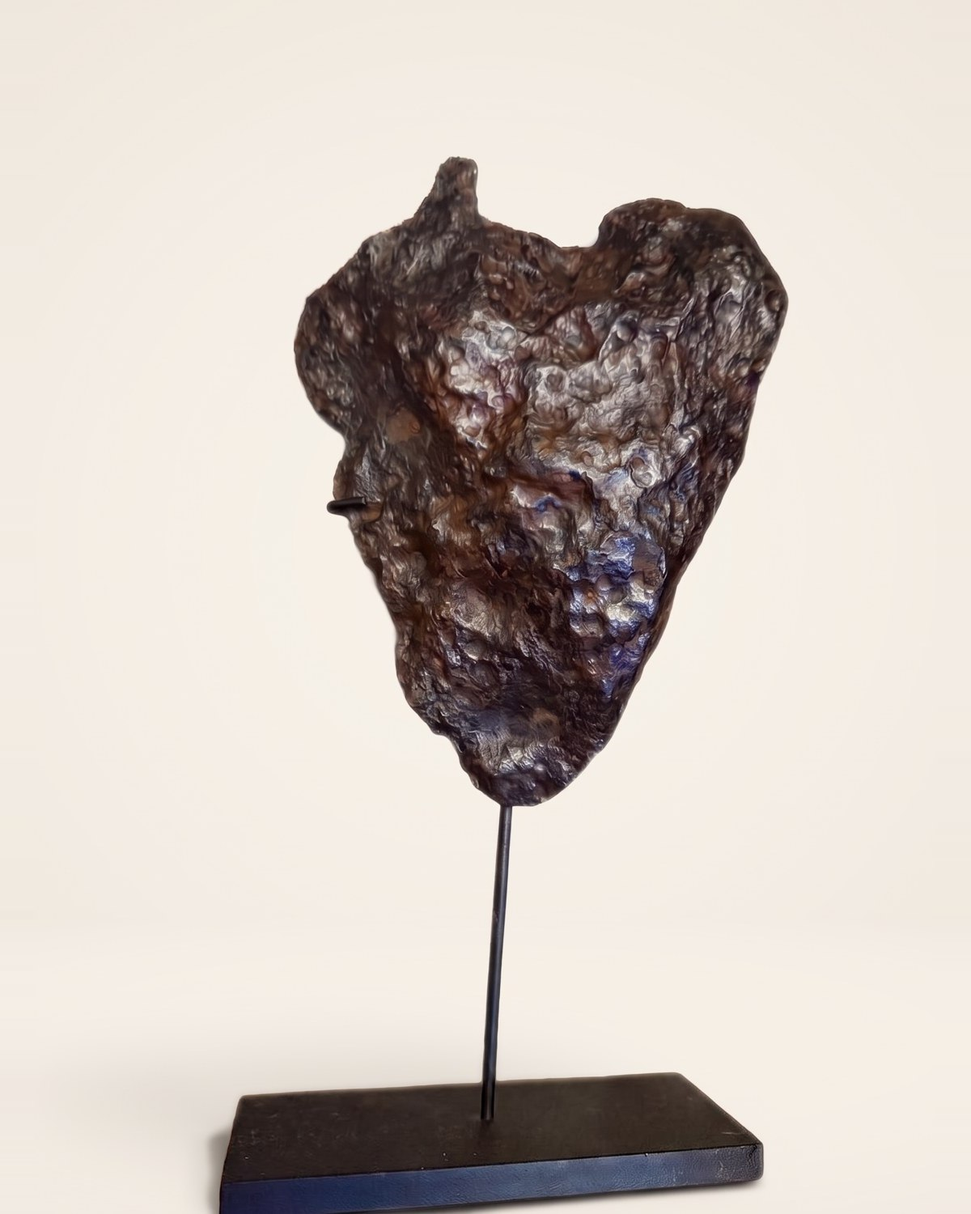
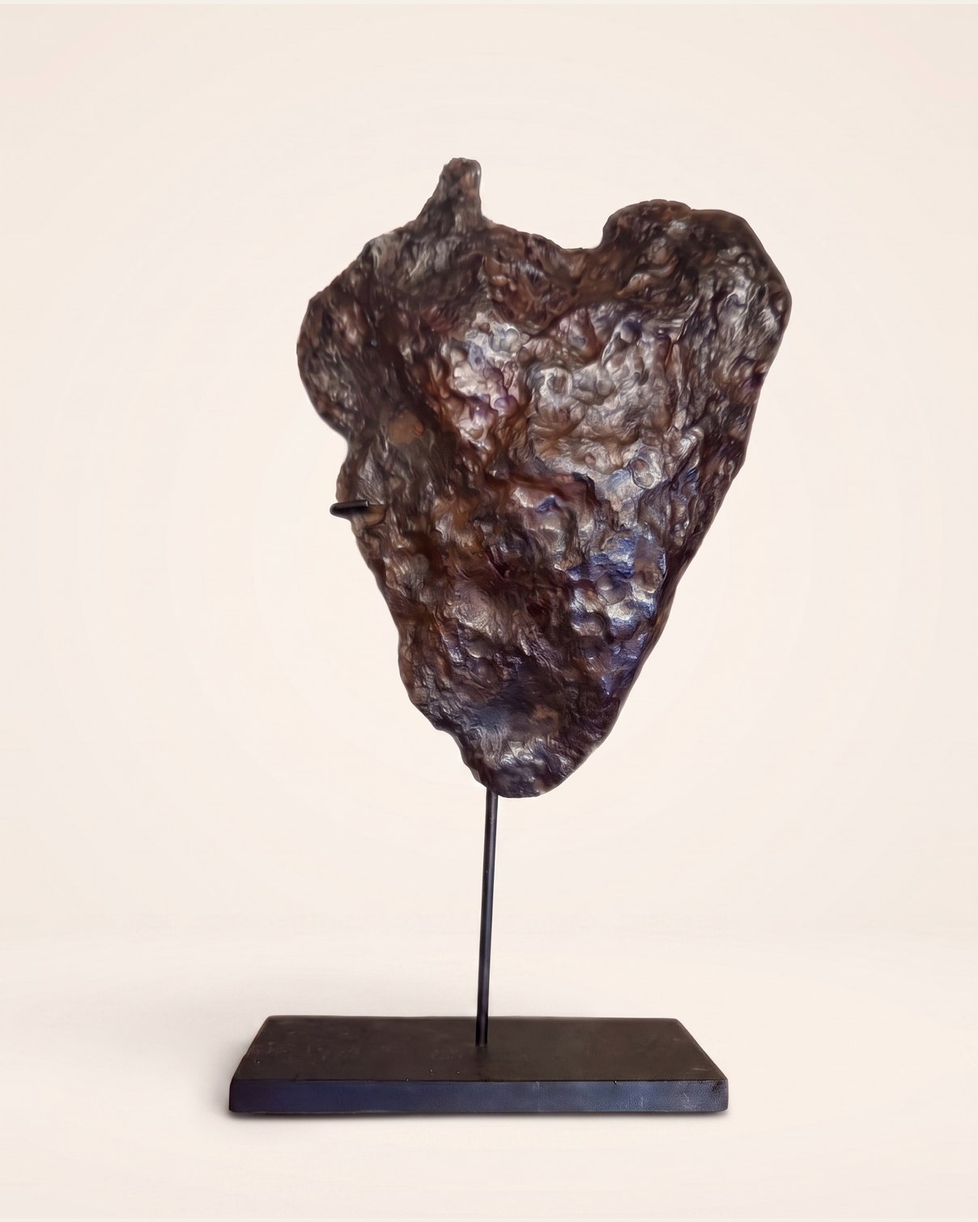
Плита ихтиозавра перегенерена из исходника (генерация задвоила скелет и растянула кромку полосами); метеорит Чинге переснят в анфас с полной подставкой в кадре

Changed region(s): [[0.185, 0.2147, 0.8325, 1.0], [0.5242, 0.2147, 0.555, 0.2453], [0.37, 0.184, 0.4008, 0.2147]]

diff --git a/02_site_v1_gallery/index.html b/02_site_v1_gallery/index.html
@@ -218,7 +218,7 @@
     </div>
     <div class="grid-objects">
       <a class="obj-card reveal" href="../16_product_promos/mammoth-tusks.html">
-        <div class="ph"><img src="../shared/img/ph_mammoth_tusks.jpg?v=7" alt="Пара бивней мамонта"></div>
+        <div class="ph"><img src="../shared/img/ph_mammoth_tusks.jpg?v=8" alt="Пара бивней мамонта"></div>
         <div class="body">
           <div class="id">R–0607 · Монументы</div>
           <h3>Пара бивней мамонта</h3>
@@ -228,7 +228,7 @@
         </div>
       </a>
       <a class="obj-card reveal" href="../16_product_promos/rhino-skull.html">
-        <div class="ph"><img src="../shared/img/ph_rhino_skull.jpg?v=7" alt="Череп шерстистого носорога"></div>
+        <div class="ph"><img src="../shared/img/ph_rhino_skull.jpg?v=8" alt="Череп шерстистого носорога"></div>
         <div class="body">
           <div class="id">R–0608 · Монументы</div>
           <h3>Череп шерстистого носорога</h3>
@@ -238,7 +238,7 @@
         </div>
       </a>
       <a class="obj-card reveal" href="../16_product_promos/sabertooth-skull.html">
-        <div class="ph"><img src="../shared/img/ph_sabertooth.jpg?v=7" alt="Череп саблезубой кошки"></div>
+        <div class="ph"><img src="../shared/img/ph_sabertooth.jpg?v=8" alt="Череп саблезубой кошки"></div>
         <div class="body">
           <div class="id">R–0208 · Жизнь</div>
           <h3>Череп саблезубой кошки</h3>
@@ -248,7 +248,7 @@
         </div>
       </a>
       <a class="obj-card reveal" href="../16_product_promos/lunar-frame.html">
-        <div class="ph"><img src="../shared/img/ph_moon_frame.jpg?v=7" alt="Лунный метеорит в раме"></div>
+        <div class="ph"><img src="../shared/img/ph_moon_frame.jpg?v=8" alt="Лунный метеорит в раме"></div>
         <div class="body">
           <div class="id">R–0105 · Космос</div>
           <h3>Лунный метеорит в раме</h3>
@@ -293,7 +293,7 @@
         </div>
       </a>
       <a class="obj-card reveal" href="../16_product_promos/exhibit.html?id=0210-placenticeras-ammolite">
-        <div class="ph"><img src="../shared/img/ph_ammolite.jpg?v=7" alt="Аммолитовый аммонит"></div>
+        <div class="ph"><img src="../shared/img/ph_ammolite.jpg?v=8" alt="Аммолитовый аммонит"></div>
         <div class="body">
           <div class="id">R–0210 · Жизнь</div>
           <h3>Аммолитовый аммонит</h3>
@@ -303,7 +303,7 @@
         </div>
       </a>
       <a class="obj-card reveal" href="../16_product_promos/exhibit.html?id=0217-dikelokephalina">
-        <div class="ph"><img src="../shared/img/ph_trilobite_giant.jpg?v=7" alt="Гигантский трилобит"></div>
+        <div class="ph"><img src="../shared/img/ph_trilobite_giant.jpg?v=8" alt="Гигантский трилобит"></div>
         <div class="body">
           <div class="id">R–0217 · Жизнь</div>
           <h3>Гигантский трилобит</h3>
@@ -313,7 +313,7 @@
         </div>
       </a>
       <a class="obj-card reveal" href="../16_product_promos/exhibit.html?id=0214-anchiornis-huxleyi">
-        <div class="ph"><img src="../shared/img/ph_anchiornis.jpg?v=7" alt="Скелет пернатого динозавра"></div>
+        <div class="ph"><img src="../shared/img/ph_anchiornis.jpg?v=8" alt="Скелет пернатого динозавра"></div>
         <div class="body">
           <div class="id">R–0214 · Жизнь</div>
           <h3>Скелет пернатого динозавра</h3>
@@ -323,7 +323,7 @@
         </div>
       </a>
       <a class="obj-card reveal" href="../16_product_promos/exhibit.html?id=0215-dinosaur-eggs">
-        <div class="ph"><img src="../shared/img/ph_dino_eggs.jpg?v=7" alt="Яйца динозавра"></div>
+        <div class="ph"><img src="../shared/img/ph_dino_eggs.jpg?v=8" alt="Яйца динозавра"></div>
         <div class="body">
           <div class="id">R–0215 · Жизнь</div>
           <h3>Яйца динозавра</h3>
@@ -361,7 +361,7 @@
   <div class="wrap">
     <div class="grid-objects">
       <a class="obj-card reveal" href="../16_product_promos/exhibit.html?id=0610-psittacosaurus-skeleton">
-        <div class="ph"><img src="../shared/img/ph_psittacosaurus_skeleton.jpg?v=7" alt="Скелет пситтакозавра" loading="lazy"></div>
+        <div class="ph"><img src="../shared/img/ph_psittacosaurus_skeleton.jpg?v=8" alt="Скелет пситтакозавра" loading="lazy"></div>
         <div class="body">
           <div class="id">R–0610 · Монументы</div>
           <h3>Скелет пситтакозавра</h3>

diff --git a/02_site_v1_gallery/index-v2.html b/02_site_v1_gallery/index-v2.html
@@ -225,7 +225,7 @@
         </div>
       </a>
       <a class="obj-card reveal" href="../16_product_promos/exhibit.html?id=0210-placenticeras-ammolite">
-        <div class="ph"><img src="../shared/img/ph_ammolite.jpg?v=7" alt="Аммолитовый аммонит"></div>
+        <div class="ph"><img src="../shared/img/ph_ammolite.jpg?v=8" alt="Аммолитовый аммонит"></div>
         <div class="body">
           <div class="id">R–0210 · Жизнь</div>
           <h3>Аммолитовый аммонит</h3>
@@ -235,7 +235,7 @@
         </div>
       </a>
       <a class="obj-card reveal" href="../16_product_promos/exhibit.html?id=0217-dikelokephalina">
-        <div class="ph"><img src="../shared/img/ph_trilobite_giant.jpg?v=7" alt="Гигантский трилобит"></div>
+        <div class="ph"><img src="../shared/img/ph_trilobite_giant.jpg?v=8" alt="Гигантский трилобит"></div>
         <div class="body">
           <div class="id">R–0217 · Жизнь</div>
           <h3>Гигантский трилобит</h3>
@@ -245,7 +245,7 @@
         </div>
       </a>
       <a class="obj-card reveal" href="../16_product_promos/exhibit.html?id=0214-anchiornis-huxleyi">
-        <div class="ph"><img src="../shared/img/ph_anchiornis.jpg?v=7" alt="Скелет пернатого динозавра"></div>
+        <div class="ph"><img src="../shared/img/ph_anchiornis.jpg?v=8" alt="Скелет пернатого динозавра"></div>
         <div class="body">
           <div class="id">R–0214 · Жизнь</div>
           <h3>Скелет пернатого динозавра</h3>
@@ -255,7 +255,7 @@
         </div>
       </a>
       <a class="obj-card reveal" href="../16_product_promos/exhibit.html?id=0215-dinosaur-eggs">
-        <div class="ph"><img src="../shared/img/ph_dino_eggs.jpg?v=7" alt="Яйца динозавра"></div>
+        <div class="ph"><img src="../shared/img/ph_dino_eggs.jpg?v=8" alt="Яйца динозавра"></div>
         <div class="body">
           <div class="id">R–0215 · Жизнь</div>
           <h3>Яйца динозавра</h3>
@@ -293,7 +293,7 @@
   <div class="wrap">
     <div class="grid-objects">
       <a class="obj-card reveal" href="../16_product_promos/exhibit.html?id=0610-psittacosaurus-skeleton">
-        <div class="ph"><img src="../shared/img/ph_psittacosaurus_skeleton.jpg?v=7" alt="Скелет пситтакозавра" loading="lazy"></div>
+        <div class="ph"><img src="../shared/img/ph_psittacosaurus_skeleton.jpg?v=8" alt="Скелет пситтакозавра" loading="lazy"></div>
         <div class="body">
           <div class="id">R–0610 · Монументы</div>
           <h3>Скелет пситтакозавра</h3>

diff --git a/15_concepts/deep-time.html b/15_concepts/deep-time.html
@@ -134,7 +134,7 @@ h1,h2{font-family:var(--serif);font-weight:400;line-height:1.06}
 
 <section class="epoch" id="e2" data-years="66000000">
   <div class="in">
-    <div class="ph"><img src="../shared/img/ph_jeholosaurus.jpg?v=7" alt="Скелет динозавра Jeholosaurus"></div>
+    <div class="ph"><img src="../shared/img/ph_jeholosaurus.jpg?v=8" alt="Скелет динозавра Jeholosaurus"></div>
     <div class="txt">
       <div class="when">меловой лес · до 66 млн лет назад</div>
       <h2>Последнее утро мезозоя</h2>
@@ -146,7 +146,7 @@ h1,h2{font-family:var(--serif);font-weight:400;line-height:1.06}
 
 <section class="epoch" id="e3" data-years="110000000">
   <div class="in">
-    <div class="ph"><img src="../shared/img/ph_ammolite.jpg?v=7" alt="Аммолитовый аммонит"></div>
+    <div class="ph"><img src="../shared/img/ph_ammolite.jpg?v=8" alt="Аммолитовый аммонит"></div>
     <div class="txt">
       <div class="when">110 миллионов лет назад · меловое море</div>
       <h2>Математика без математика</h2>
@@ -158,7 +158,7 @@ h1,h2{font-family:var(--serif);font-weight:400;line-height:1.06}
 
 <section class="epoch" id="e4" data-years="180000000">
   <div class="in">
-    <div class="ph"><img src="../shared/img/ph_ichthyosaur_plate.jpg?v=7" alt="Скелет ихтиозавра"></div>
+    <div class="ph"><img src="../shared/img/ph_ichthyosaur_plate.jpg?v=8" alt="Скелет ихтиозавра"></div>
     <div class="txt">
       <div class="when">180 миллионов лет назад · юрский океан</div>
       <h2>Глаза размером с блюдца</h2>
@@ -170,7 +170,7 @@ h1,h2{font-family:var(--serif);font-weight:400;line-height:1.06}
 
 <section class="epoch" id="e5" data-years="390000000">
   <div class="in">
-    <div class="ph"><img src="../shared/img/ph_trilobite_giant.jpg?v=7" alt="Гигантский трилобит"></div>
+    <div class="ph"><img src="../shared/img/ph_trilobite_giant.jpg?v=8" alt="Гигантский трилобит"></div>
     <div class="txt">
       <div class="when">390 миллионов лет назад · девон</div>
       <h2>Первые глаза, видевшие мир</h2>

diff --git a/15_concepts/era-cretaceous.html b/15_concepts/era-cretaceous.html
@@ -190,15 +190,15 @@ footer .foot-links a{color:var(--mist)}footer .foot-links a:hover{color:var(--go
     </div>
     <div class="grid">
       <a class="card" href="../16_product_promos/exhibit.html?id=0610-psittacosaurus-skeleton">
-        <div class="im"><img src="../shared/img/ph_psittacosaurus_skeleton.jpg?v=7" alt=""></div>
+        <div class="im"><img src="../shared/img/ph_psittacosaurus_skeleton.jpg?v=8" alt=""></div>
         <div class="b"><div class="id">R–0610 · Монументы</div><h3>Скелет пситтакозавра</h3><div class="lat">Psittacosaurus sp.</div><div class="pr"><b>Цена по запросу</b><span>Смотреть</span></div></div>
       </a>
       <a class="card" href="../16_product_promos/jeholosaurus.html">
-        <div class="im"><img src="../shared/img/ph_jeholosaurus.jpg?v=7" alt=""></div>
+        <div class="im"><img src="../shared/img/ph_jeholosaurus.jpg?v=8" alt=""></div>
         <div class="b"><div class="id">R–0609 · Монументы</div><h3>Скелет динозавра Jeholosaurus</h3><div class="lat">Jeholosaurus shangyuanensis</div><div class="pr"><b>Цена по запросу</b><span>Смотреть</span></div></div>
       </a>
       <a class="card" href="../16_product_promos/exhibit.html?id=0210-placenticeras-ammolite">
-        <div class="im"><img src="../shared/img/ph_ammolite.jpg?v=7" alt=""></div>
+        <div class="im"><img src="../shared/img/ph_ammolite.jpg?v=8" alt=""></div>
         <div class="b"><div class="id">R–0210 · Жизнь</div><h3>Аммолитовый аммонит</h3><div class="lat">Placenticeras costatum</div><div class="pr"><b>Цена по запросу</b><span>Смотреть</span></div></div>
       </a>
     </div>

diff --git a/15_concepts/era-devonian.html b/15_concepts/era-devonian.html
@@ -179,15 +179,15 @@ footer .foot-links a{color:var(--mist)}footer .foot-links a:hover{color:var(--go
     </div>
     <div class="grid">
       <a class="card" href="../16_product_promos/bothriolepis.html">
-        <div class="im"><img src="../shared/img/ph_bothriolepis.jpg?v=7" alt=""></div>
+        <div class="im"><img src="../shared/img/ph_bothriolepis.jpg?v=8" alt=""></div>
         <div class="b"><div class="id">R–0209 · Жизнь</div><h3>Панцирная рыба Bothriolepis</h3><div class="lat">Bothriolepis sp.</div><div class="pr"><b>Цена по запросу</b><span>Смотреть</span></div></div>
       </a>
       <a class="card" href="../16_product_promos/exhibit.html?id=0219-dunkleosteus">
-        <div class="im"><img src="../shared/img/ph_dunkleosteus.jpg?v=7" alt=""></div>
+        <div class="im"><img src="../shared/img/ph_dunkleosteus.jpg?v=8" alt=""></div>
         <div class="b"><div class="id">R–0219 · Жизнь</div><h3>Череп Dunkleosteus</h3><div class="lat">Dunkleosteus terrelli</div><div class="pr"><b>Цена по запросу</b><span>Смотреть</span></div></div>
       </a>
       <a class="card" href="../16_product_promos/exhibit.html?id=0217-dikelokephalina">
-        <div class="im"><img src="../shared/img/ph_trilobite_giant.jpg?v=7" alt=""></div>
+        <div class="im"><img src="../shared/img/ph_trilobite_giant.jpg?v=8" alt=""></div>
         <div class="b"><div class="id">R–0217 · Жизнь</div><h3>Гигантский трилобит</h3><div class="lat">Dikelokephalina brenchleyi</div><div class="pr"><b>Цена по запросу</b><span>Смотреть</span></div></div>
       </a>
     </div>

diff --git a/15_concepts/era-neogene.html b/15_concepts/era-neogene.html
@@ -190,15 +190,15 @@ footer .foot-links a{color:var(--mist)}footer .foot-links a:hover{color:var(--go
     </div>
     <div class="grid">
       <a class="card" href="../16_product_promos/sabertooth-skull.html">
-        <div class="im"><img src="../shared/img/ph_sabertooth.jpg?v=7" alt=""></div>
+        <div class="im"><img src="../shared/img/ph_sabertooth.jpg?v=8" alt=""></div>
         <div class="b"><div class="id">R–0208 · Жизнь</div><h3>Череп саблезубой кошки</h3><div class="lat">Machairodus / Amphimachairodus sp.</div><div class="pr"><b>Цена по запросу</b><span>Смотреть</span></div></div>
       </a>
       <a class="card" href="../16_product_promos/exhibit.html?id=0226-hyena-skull">
-        <div class="im"><img src="../shared/img/ph_hyena_skull.jpg?v=7" alt=""></div>
+        <div class="im"><img src="../shared/img/ph_hyena_skull.jpg?v=8" alt=""></div>
         <div class="b"><div class="id">R–0226 · Жизнь</div><h3>Череп динокрокуты</h3><div class="lat">Dinocrocuta gigantea</div><div class="pr"><b>Цена по запросу</b><span>Смотреть</span></div></div>
       </a>
       <a class="card" href="../16_product_promos/megalodon-tooth.html">
-        <div class="im"><img src="../shared/img/ph_megalodon.jpg?v=7" alt=""></div>
+        <div class="im"><img src="../shared/img/ph_megalodon.jpg?v=8" alt=""></div>
         <div class="b"><div class="id">R–0201 · Жизнь</div><h3>Зуб мегалодона</h3><div class="lat">Otodus megalodon</div><div class="pr"><b>1 250 000 ₽</b><span>Смотреть</span></div></div>
       </a>
     </div>

diff --git a/16_product_promos/bothriolepis.html b/16_product_promos/bothriolepis.html
@@ -178,7 +178,7 @@ if(!o){
   var spinSec=(P&&P.spin)?(
     '<section class="spin"><div class="wrap">'+
       '<div class="label rv" style="color:var(--deep);margin-bottom:18px">Объект в 360°</div>'+
-      '<div class="sframe rv"><video src="'+(P.spin.indexOf('http')===0?P.spin:IMG+P.spin)+'" poster="'+IMG+o.img+'.jpg?v=7" muted loop playsinline autoplay preload="metadata"></video></div>'+
+      '<div class="sframe rv"><video src="'+(P.spin.indexOf('http')===0?P.spin:IMG+P.spin)+'" poster="'+IMG+o.img+'.jpg?v=8" muted loop playsinline autoplay preload="metadata"></video></div>'+
       '<div class="scap rv">Полный оборот вокруг подлинника — каждый ракурс реального экспоната</div>'+
     '</div></section>'):'';
   var passCells=[
@@ -224,7 +224,7 @@ if(!o){
       '<p class="hook rv">'+hook+'</p>'+
       '<div class="rv"><span class="scrollcue">Листайте</span></div>'+
     '</div>'+
-    '<div class="ph rv'+(P&&P.heroVideo?' vid':'')+'"><img src="'+IMG+o.img+'.jpg?v=7" alt="'+o.name+'">'+
+    '<div class="ph rv'+(P&&P.heroVideo?' vid':'')+'"><img src="'+IMG+o.img+'.jpg?v=8" alt="'+o.name+'">'+
       (P&&P.heroVideo?'<video id="heroVid" muted loop playsinline preload="auto" src="'+IMG+P.heroVideo+'"></video>':'')+
     '</div>'+
   '</section>'+

diff --git a/16_product_promos/exhibit.html b/16_product_promos/exhibit.html
@@ -178,7 +178,7 @@ if(!o){
   var spinSec=(P&&P.spin)?(
     '<section class="spin"><div class="wrap">'+
       '<div class="label rv" style="color:var(--deep);margin-bottom:18px">Объект в 360°</div>'+
-      '<div class="sframe rv"><video src="'+(P.spin.indexOf('http')===0?P.spin:IMG+P.spin)+'" poster="'+IMG+o.img+'.jpg?v=7" muted loop playsinline autoplay preload="metadata"></video></div>'+
+      '<div class="sframe rv"><video src="'+(P.spin.indexOf('http')===0?P.spin:IMG+P.spin)+'" poster="'+IMG+o.img+'.jpg?v=8" muted loop playsinline autoplay preload="metadata"></video></div>'+
       '<div class="scap rv">Полный оборот вокруг подлинника — каждый ракурс реального экспоната</div>'+
     '</div></section>'):'';
   var passCells=[
@@ -224,7 +224,7 @@ if(!o){
       '<p class="hook rv">'+hook+'</p>'+
       '<div class="rv"><span class="scrollcue">Листайте</span></div>'+
     '</div>'+
-    '<div class="ph rv'+(P&&P.heroVideo?' vid':'')+'"><img src="'+IMG+o.img+'.jpg?v=7" alt="'+o.name+'">'+
+    '<div class="ph rv'+(P&&P.heroVideo?' vid':'')+'"><img src="'+IMG+o.img+'.jpg?v=8" alt="'+o.name+'">'+
       (P&&P.heroVideo?'<video id="heroVid" muted loop playsinline preload="auto" src="'+IMG+P.heroVideo+'"></video>':'')+
     '</div>'+
   '</section>'+

diff --git a/16_product_promos/jeholosaurus.html b/16_product_promos/jeholosaurus.html
@@ -178,7 +178,7 @@ if(!o){
   var spinSec=(P&&P.spin)?(
     '<section class="spin"><div class="wrap">'+
       '<div class="label rv" style="color:var(--deep);margin-bottom:18px">Объект в 360°</div>'+
-      '<div class="sframe rv"><video src="'+(P.spin.indexOf('http')===0?P.spin:IMG+P.spin)+'" poster="'+IMG+o.img+'.jpg?v=7" muted loop playsinline autoplay preload="metadata"></video></div>'+
+      '<div class="sframe rv"><video src="'+(P.spin.indexOf('http')===0?P.spin:IMG+P.spin)+'" poster="'+IMG+o.img+'.jpg?v=8" muted loop playsinline autoplay preload="metadata"></video></div>'+
       '<div class="scap rv">Полный оборот вокруг подлинника — каждый ракурс реального экспоната</div>'+
     '</div></section>'):'';
   var passCells=[
@@ -224,7 +224,7 @@ if(!o){
       '<p class="hook rv">'+hook+'</p>'+
       '<div class="rv"><span class="scrollcue">Листайте</span></div>'+
     '</div>'+
-    '<div class="ph rv'+(P&&P.heroVideo?' vid':'')+'"><img src="'+IMG+o.img+'.jpg?v=7" alt="'+o.name+'">'+
+    '<div class="ph rv'+(P&&P.heroVideo?' vid':'')+'"><img src="'+IMG+o.img+'.jpg?v=8" alt="'+o.name+'">'+
       (P&&P.heroVideo?'<video id="heroVid" muted loop playsinline preload="auto" src="'+IMG+P.heroVideo+'"></video>':'')+
     '</div>'+
   '</section>'+

diff --git a/16_product_promos/lunar-frame.html b/16_product_promos/lunar-frame.html
@@ -178,7 +178,7 @@ if(!o){
   var spinSec=(P&&P.spin)?(
     '<section class="spin"><div class="wrap">'+
       '<div class="label rv" style="color:var(--deep);margin-bottom:18px">Объект в 360°</div>'+
-      '<div class="sframe rv"><video src="'+(P.spin.indexOf('http')===0?P.spin:IMG+P.spin)+'" poster="'+IMG+o.img+'.jpg?v=7" muted loop playsinline autoplay preload="metadata"></video></div>'+
+      '<div class="sframe rv"><video src="'+(P.spin.indexOf('http')===0?P.spin:IMG+P.spin)+'" poster="'+IMG+o.img+'.jpg?v=8" muted loop playsinline autoplay preload="metadata"></video></div>'+
       '<div class="scap rv">Полный оборот вокруг подлинника — каждый ракурс реального экспоната</div>'+
     '</div></section>'):'';
   var passCells=[
@@ -224,7 +224,7 @@ if(!o){
       '<p class="hook rv">'+hook+'</p>'+
       '<div class="rv"><span class="scrollcue">Листайте</span></div>'+
     '</div>'+
-    '<div class="ph rv'+(P&&P.heroVideo?' vid':'')+'"><img src="'+IMG+o.img+'.jpg?v=7" alt="'+o.name+'">'+
+    '<div class="ph rv'+(P&&P.heroVideo?' vid':'')+'"><img src="'+IMG+o.img+'.jpg?v=8" alt="'+o.name+'">'+
       (P&&P.heroVideo?'<video id="heroVid" muted loop playsinline preload="auto" src="'+IMG+P.heroVideo+'"></video>':'')+
     '</div>'+
   '</section>'+

diff --git a/16_product_promos/mammoth-tusks.html b/16_product_promos/mammoth-tusks.html
@@ -178,7 +178,7 @@ if(!o){
   var spinSec=(P&&P.spin)?(
     '<section class="spin"><div class="wrap">'+
       '<div class="label rv" style="color:var(--deep);margin-bottom:18px">Объект в 360°</div>'+
-      '<div class="sframe rv"><video src="'+(P.spin.indexOf('http')===0?P.spin:IMG+P.spin)+'" poster="'+IMG+o.img+'.jpg?v=7" muted loop playsinline autoplay preload="metadata"></video></div>'+
+      '<div class="sframe rv"><video src="'+(P.spin.indexOf('http')===0?P.spin:IMG+P.spin)+'" poster="'+IMG+o.img+'.jpg?v=8" muted loop playsinline autoplay preload="metadata"></video></div>'+
       '<div class="scap rv">Полный оборот вокруг подлинника — каждый ракурс реального экспоната</div>'+
     '</div></section>'):'';
   var passCells=[
@@ -224,7 +224,7 @@ if(!o){
       '<p class="hook rv">'+hook+'</p>'+
       '<div class="rv"><span class="scrollcue">Листайте</span></div>'+
     '</div>'+
-    '<div class="ph rv'+(P&&P.heroVideo?' vid':'')+'"><img src="'+IMG+o.img+'.jpg?v=7" alt="'+o.name+'">'+
+    '<div class="ph rv'+(P&&P.heroVideo?' vid':'')+'"><img src="'+IMG+o.img+'.jpg?v=8" alt="'+o.name+'">'+
       (P&&P.heroVideo?'<video id="heroVid" muted loop playsinline preload="auto" src="'+IMG+P.heroVideo+'"></video>':'')+
     '</div>'+
   '</section>'+

diff --git a/16_product_promos/meteorite-chinge.html b/16_product_promos/meteorite-chinge.html
@@ -178,7 +178,7 @@ if(!o){
   var spinSec=(P&&P.spin)?(
     '<section class="spin"><div class="wrap">'+
       '<div class="label rv" style="color:var(--deep);margin-bottom:18px">Объект в 360°</div>'+
-      '<div class="sframe rv"><video src="'+(P.spin.indexOf('http')===0?P.spin:IMG+P.spin)+'" poster="'+IMG+o.img+'.jpg?v=7" muted loop playsinline autoplay preload="metadata"></video></div>'+
+      '<div class="sframe rv"><video src="'+(P.spin.indexOf('http')===0?P.spin:IMG+P.spin)+'" poster="'+IMG+o.img+'.jpg?v=8" muted loop playsinline autoplay preload="metadata"></video></div>'+
       '<div class="scap rv">Полный оборот вокруг подлинника — каждый ракурс реального экспоната</div>'+
     '</div></section>'):'';
   var passCells=[
@@ -224,7 +224,7 @@ if(!o){
       '<p class="hook rv">'+hook+'</p>'+
       '<div class="rv"><span class="scrollcue">Листайте</span></div>'+
     '</div>'+
-    '<div class="ph rv'+(P&&P.heroVideo?' vid':'')+'"><img src="'+IMG+o.img+'.jpg?v=7" alt="'+o.name+'">'+
+    '<div class="ph rv'+(P&&P.heroVideo?' vid':'')+'"><img src="'+IMG+o.img+'.jpg?v=8" alt="'+o.name+'">'+
       (P&&P.heroVideo?'<video id="heroVid" muted loop playsinline preload="auto" src="'+IMG+P.heroVideo+'"></video>':'')+
     '</div>'+
   '</section>'+
